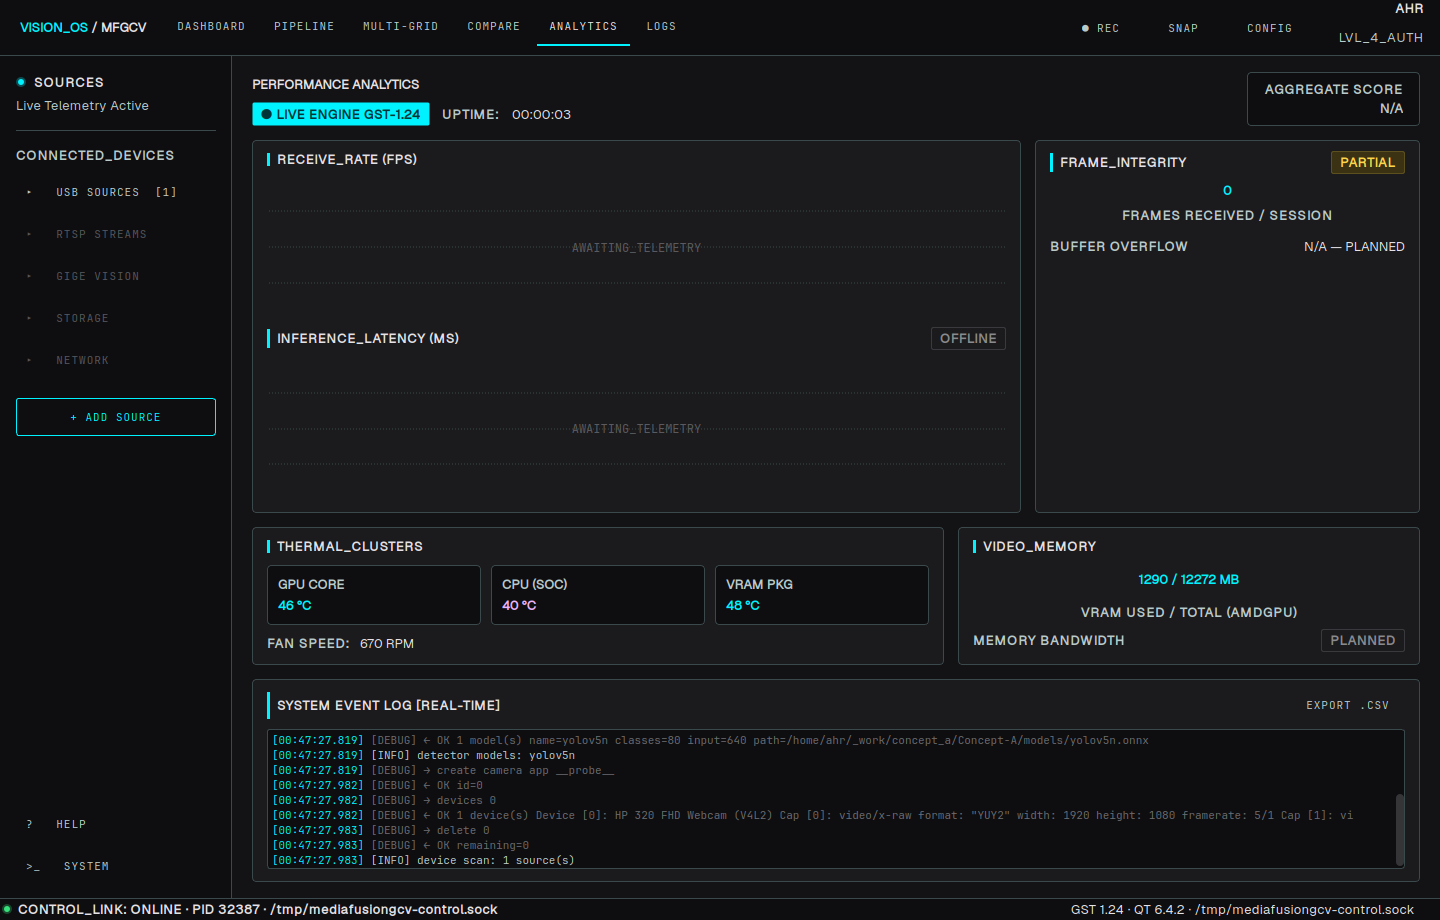
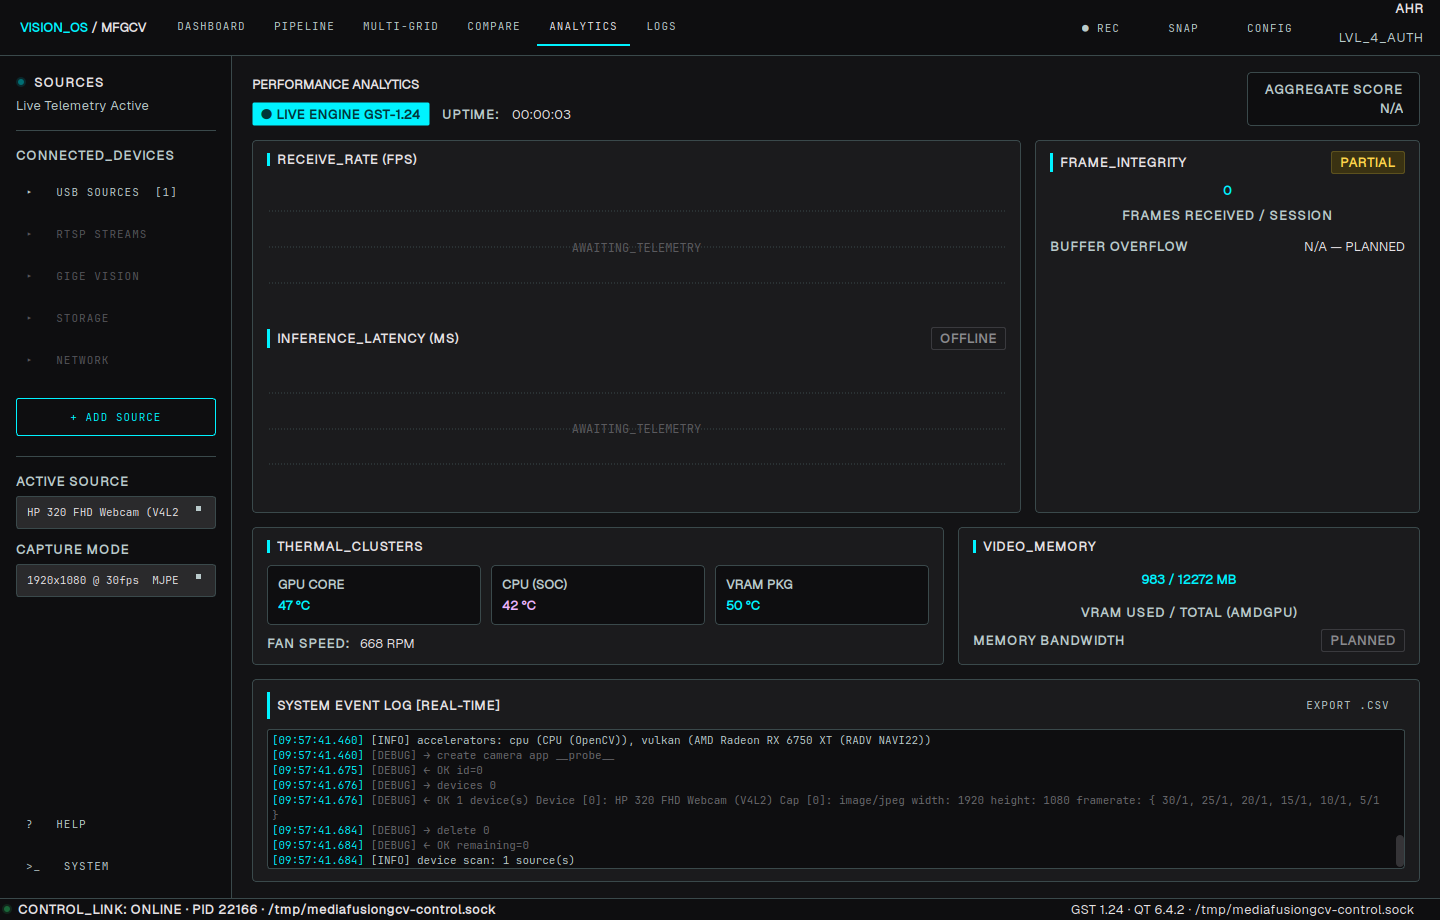
docs: record the one-job-per-page layout and the shared working config

diff --git a/docs/GUI_DESIGN.md b/docs/GUI_DESIGN.md
@@ -49,7 +49,12 @@ core/
                          (QThread + ControlClient) and the daemon QProcess;
                          session table maps GUI stream sessions → daemon
                          pipeline ids (create→configure→start; stop→delete —
-                         fresh pipeline per session, ids re-based after erase)
+                         fresh pipeline per session, ids re-based after erase).
+                         Also holds the WORKING CONFIG — the one DeploySpec the
+                         console is assembling — plus primarySession(), the
+                         session it is running as. Surfaces edit their own slice
+                         (rail: source; Pipeline: chain + detector + accel) and
+                         follow configChanged; nothing keeps a second copy
   DeviceParser           parses the daemon's `devices` listing into
                          DeviceInfo{name, caps[{index,label,raw}]}
   InferenceTypes         parses `models` and `stats <id>` into DetectorModel /
@@ -63,8 +68,14 @@ theme/Theme              design tokens from the Stitch DESIGN.md (colors,
                          hue switching (cyan/magenta/lilac/peach)
 widgets/
   Components             SectionHeader, LedDot, Badge, ToggleSwitch, StatTile,
-                         MiniBars, LineChart, PlannedOverlay (placeholder veil)
-  Shell                  TopBar, NavTabBar, SideRail
+                         MiniBars, LineChart, PlannedOverlay (placeholder veil),
+                         ParamPanel (controls generated from a knob schema)
+  ChainEditor            THE processing-chain UI — one row per algorithm, with
+                         the tuned stage's ParamPanel expanded and the others
+                         collapsed, so the panel is the same height at twelve
+                         algorithms as at five. Owned by the Pipeline page
+  Shell                  TopBar, NavTabBar, SideRail (SideRail also carries the
+                         source + capture-mode selection)
   VideoTile              StreamReceiver + chrome (REC dot, source chip, FPS
                          badge) with offline "NO_SIGNAL" placeholder state
 pages/                   Dashboard, Pipeline, MultiGrid, Analytics, Compare,
@@ -81,14 +92,37 @@ Old `GuiMediaFusion{,Model,Controller}`, `PreLaunchSettings.ui`, `guiElements.h`
 
 ## 3. Design→backend feature matrix
 
+**One job per page.** The console has one configuration surface and one
+monitoring surface, and controls live on whichever that makes them:
+
+| Page | Its job |
+|---|---|
+| SideRail (all pages) | pick the source and capture mode |
+| Dashboard | **watch it run** — viewport, telemetry, run controls, a read-only view of the chain |
+| Pipeline | **set it up** — the chain and every knob, the detector, acceleration, DEPLOY |
+| Multi-grid / Analytics | watch many / watch over time |
+| Settings | the console itself |
+
+The pieces of a deploy used to live in the widget trees of whichever page
+happened to show them, so the Dashboard and the Pipeline page each carried a full
+copy of the chain editor and each built its own `DeploySpec` — which is why they
+could disagree (the Dashboard never sent the acceleration choice; the Pipeline
+page never sent the confidence). There is now one **working config** on
+`BackendService`, each surface edits its own slice, and both DEPLOY and START
+build from it. The session it is running as lives there too
+(`primarySession()`), so a knob moved on the Pipeline page retunes a stream the
+Dashboard started.
+
 | Design element (screen) | Status | Wiring |
 |---|---|---|
 | Live viewport w/ source chip, REC timer (Dashboard) | **REAL** | VideoTile + StreamReceiver on `start` socket |
 | START/STOP stream, REBOOT_CORE, TERMINATE_PID | **REAL** | deploy/stop session; daemon restart/shutdown |
+| Source + capture mode (SideRail, all pages) | **REAL** | `devices` → DeviceParser → working config |
 | Device list & caps selection (Device Manager) | **REAL** | `devices` → DeviceParser; CONNECT = `set-device` |
 | Protocol filter chips USB / RTSP / GigE / CoaXPress | PARTIAL | USB (V4L2) real; others disabled `PLANNED` |
-| Processing chain (Pipeline node PROCESS) | **REAL** | `algos-list` → one checkbox per reported algorithm → `algos` |
-| Per-algorithm parameter controls | **REAL** | `algo-params <algo>` → generated sliders/toggles/combos under each checkbox → `algo-set` (live) or carried in the deploy |
+| Processing chain (Pipeline node PROCESS) | **REAL** | `algos-list` → `vos::ChainEditor`, one row per reported algorithm → `algos` |
+| Per-algorithm parameter controls | **REAL** | `algo-params <algo>` → generated sliders/toggles/combos, **one stage expanded at a time** → `algo-set` (live) or carried in the deploy |
+| Active chain summary (Dashboard) | **REAL** | read-only; CONFIGURE → jumps to the Pipeline page |
 | Pipeline editor canvas SOURCE→PROCESS→SINK | PARTIAL | fixed linear chain (matches backend); node drag `PLANNED` |
 | DEPLOY PIPELINE | **REAL** | create → set-device → algos → start |
 | Multi-grid 2×2 tiles, per-tile source | **REAL**¹ | one session per tile (¹ limited by #cameras) |

diff --git a/README.md b/README.md
@@ -57,6 +57,7 @@ interrupts operations; errors surface as log entries and tile badges.
 | **Streaming** | Camera → viewport, end-to-end: `create → set-device → algos → start`, frames over a per-stream zero-copy unixfd socket into an embedded GL viewport |
 | **Processing chain** | Runtime-selectable OpenCV algorithms (`grayscale`, `canny`, `framediff`, `motion`, `detect`) applied in place via a pad probe — toggled live from the console |
 | **Algorithm parameters** | Each stage describes its own knobs (`algo-params`); the console generates sliders/toggles from that schema and retunes a running stream with `algo-set` |
+| **Console layout** | One job per page: the side rail picks the source, the Pipeline page configures the chain and every knob, the Dashboard watches it run. The pipeline being assembled is one shared working config rather than a copy in each page's widgets, so the two deploy paths cannot disagree and a knob moved while streaming reaches the stream whichever page started it |
 | **Motion detection** | `framediff` — temporal difference against a running average of the scene, with sensitivity, background decay and overlay/mask/heat rendering. `motion` — MOG2 or KNN background subtraction, which learns the scene and so holds still through foliage, flicker and lighting drift that a running average reports as movement; tunable history, foreground threshold, shadow suppression and learning rate, rendered as overlay, mask, or the learned background itself. The analysis runs on a 360-row copy and the mask is scaled back up, which keeps it at ≈4.4 ms/frame at 1080p against ≈10.7 ms for the same subtractor at full resolution |
 | **AI inference** | YOLO-family ONNX object detection (`detect`) through OpenCV DNN: model picker and confidence slider in the console, boxes drawn into the frame, model swappable mid-stream. Inference runs on a worker thread and the probe overlays the newest result, so detection cost never throttles the stream |
 | **Inference telemetry** | Real per-pipeline detector stats over the control protocol (`stats <id>`) — latency chart, TOTAL_OBJECTS / AVG_CONFIDENCE tiles, and detections in the event log |
